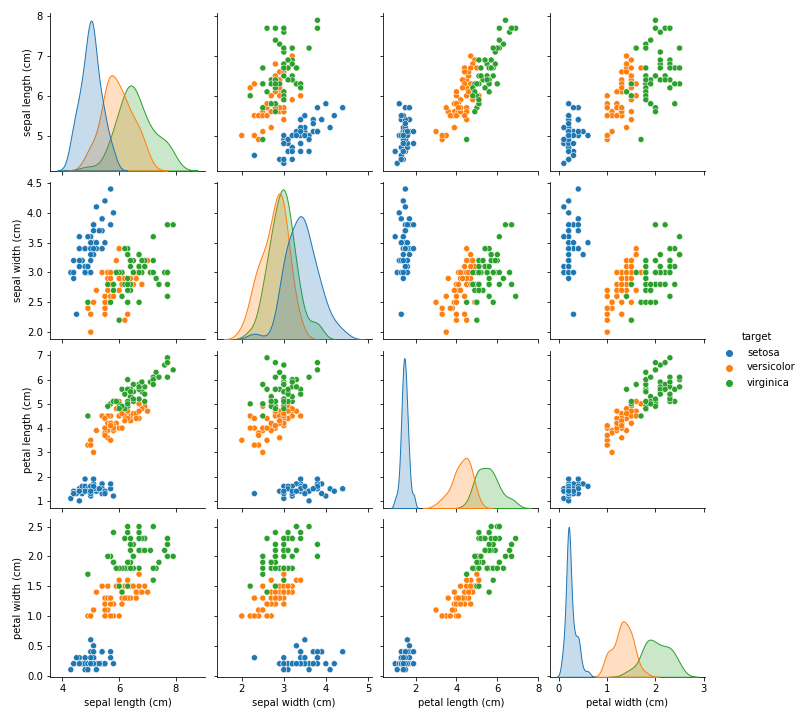
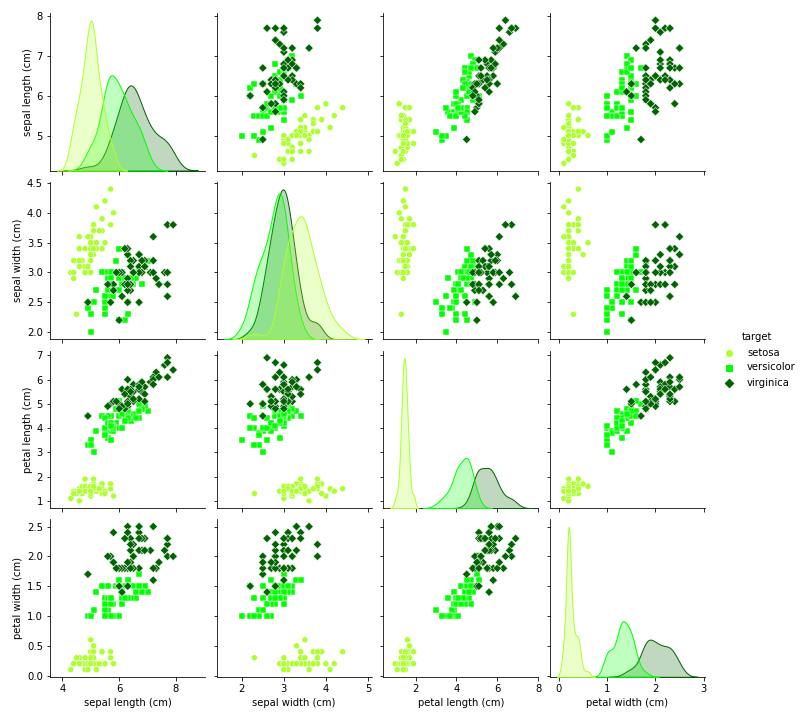
finished plotting for KNN

diff --git a/common_ML_algorithms/knn/plotKNN.py b/common_ML_algorithms/knn/plotKNN.py
@@ -3,11 +3,14 @@ import pandas as pd
 import matplotlib.pyplot as plt
 import seaborn as sns
 
-def plotKNN(input_data):
+def plotKNN(input_data, X_test, y_test, y_hat):
+    
+    y_hat[y_hat != y_test] = 3.0
     
     ## create dataframe for visualization
     df = pd.DataFrame(data=np.c_[input_data['data'], input_data['target']], columns=input_data['feature_names'] + ['target'])
-    
+    df_pred = pd.DataFrame(data=np.c_[X_test, y_hat], columns=input_data['feature_names'] + ['target'])
+   
     ## histograms
     fig, axs = plt.subplots(2, 2, figsize=(7, 7))
     sns.histplot(data=df, x=input_data.feature_names[0], bins=50, color="chartreuse", ax=axs[0, 0])
@@ -29,6 +32,15 @@ def plotKNN(input_data):
     df['target'][df["target"] == 0.0] = input_data.target_names[0]
     df['target'][df["target"] == 1.0] = input_data.target_names[1]
     df['target'][df["target"] == 2.0] = input_data.target_names[2]
-    sns.pairplot(df, hue="target")
+    sns.pairplot(df, hue="target", palette=['greenyellow','lime', 'darkgreen'], markers=["o", "s", "D"])
     plt.savefig('knn_pairplots.png')
+    plt.show()
+    
+    ## prediction pairplots
+    df_pred['target'][df_pred["target"] == 0.0] = input_data.target_names[0]
+    df_pred['target'][df_pred["target"] == 1.0] = input_data.target_names[1]
+    df_pred['target'][df_pred["target"] == 2.0] = input_data.target_names[2]
+    df_pred['target'][df_pred["target"] == 3.0] = 'wrongly classified'
+    sns.pairplot(df_pred, hue="target", palette=['greenyellow','lime', 'darkgreen', 'red'], markers=["o", "s", "D", "X"])
+    plt.savefig('knn_pairplots_predicted.png')
     plt.show()

diff --git a/common_ML_algorithms/knn/knn.py b/common_ML_algorithms/knn/knn.py
@@ -2,6 +2,8 @@ from sklearn.neighbors import KNeighborsClassifier
 from sklearn.datasets import load_iris
 from sklearn.model_selection import train_test_split
 from sklearn import metrics
+import numpy as np
+import pandas as pd
 from plotKNN import plotKNN
 
 ## load and split
@@ -21,4 +23,4 @@ y_hat = sk_knn.predict(X_test)
 print("Accuracy:",metrics.accuracy_score(y_test, y_hat))
 
 ## plotting
-plotKNN(iris_data)
+plotKNN(iris_data, X_test, y_test, y_hat)

diff --git a/common_ML_algorithms/README.md b/common_ML_algorithms/README.md
@@ -20,7 +20,7 @@ scikit-learn implementation using iris dataset
 
 sci-kit learn implementation using iris dataset
 
-### descriptive visualizations of dataset
+### Descriptive visualizations of dataset
 
 |![Histograms](./knn/knn_histograms.png) |
 |:--:| 
@@ -33,3 +33,8 @@ sci-kit learn implementation using iris dataset
 | ![Pair plots](./knn/knn_pairplots.png) |
 |:--:| 
 | *Pair plots* |
+
+## Predictions
+| ![Pair plots for predicted classes](./knn/knn_pairplots_predicted.png) |
+|:--:| 
+| *Pair plots for predicted classes* |
